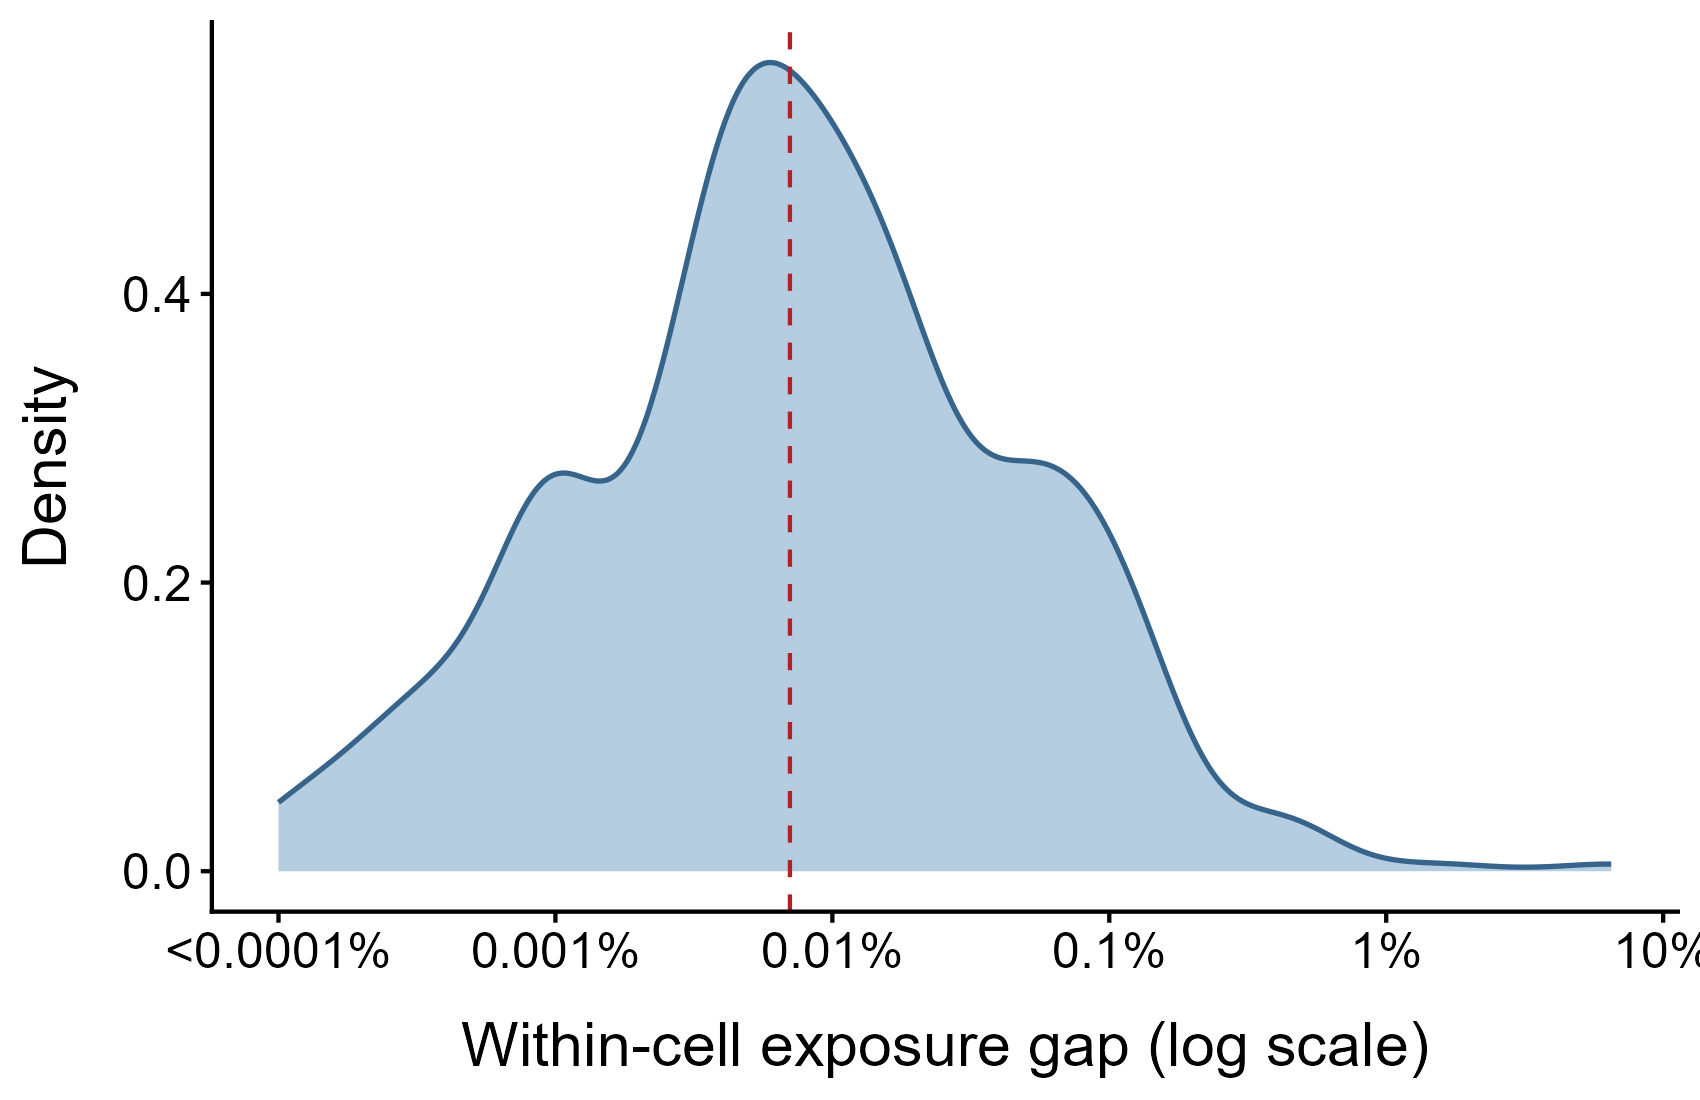
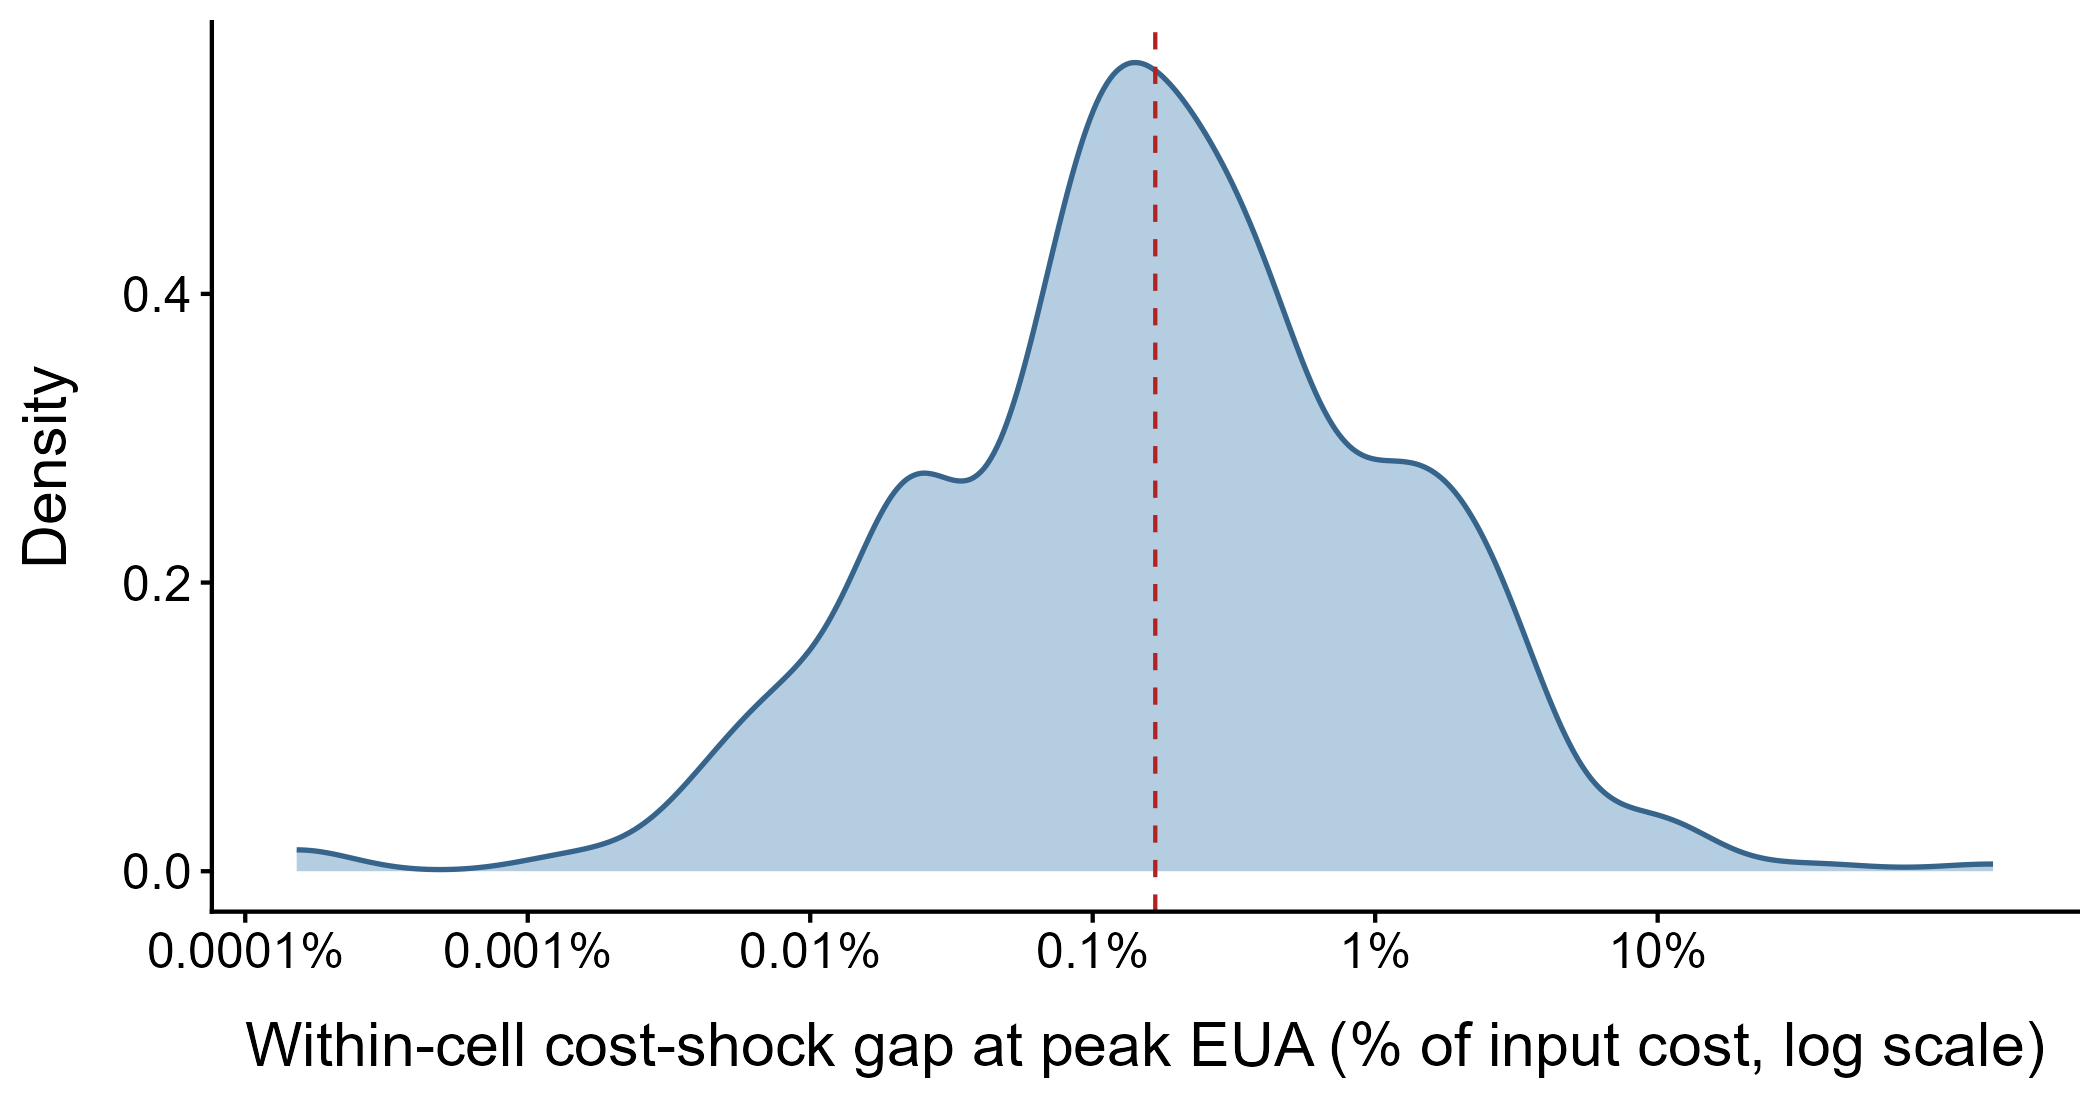
feat(figures+tables): cost shock at peak EUA throughout descriptive section
Three changes for interpretability:

1. Pct in EUTL now uses the 2015-16 omega-measurement window
   (was previously the 2010-14 pre-window). Top is mechanically 100%;
   bot drops because we're checking a tighter window.

2. New table row 'Carbon cost at peak EUA (% of input cost)' replaces
   'Carbon pricing exposure'. Value = omega * EUA_2018_real * 100,
   with EUA_2018_real = 23.70 EUR/tCO2 (end-of-2018 settlement,
   deflated to 2016 EUR via Belgian aggregate PPI -- the same
   reference as phase4_within_intensive_figures.R uses).
   Values like 1.20% are much more interpretable than 0.0005.

3. Both density figures (omega_density, exposure_gap_density) now plot
   the cost shock at peak EUA in % units rather than raw omega. The
   x-axes are consistent across all descriptive artifacts.

Figure width bumped from 8.5 to 10.5 inches so the longer axis title
'Within-cell cost-shock gap at peak EUA (% of input cost, log scale)'
fits without clipping.

diff --git a/output_local/tables/phase4_within_nace4d_descriptive_summary_table.tex b/output_local/tables/phase4_within_nace4d_descriptive_summary_table.tex
@@ -17,10 +17,10 @@ Firm age & 15.4 & 16 & 15.4 & 16 \\
 Relationship age (years to 2017) & 10.1 & 10 & 9.9 & 10 \\
 Pre-policy attrition rate (\%) & \multicolumn{2}{c}{8.11} & \multicolumn{2}{c}{8.42} \\
 \midrule
-Pct in EUTL & \multicolumn{2}{c}{96.6} & \multicolumn{2}{c}{38.6} \\
+Pct in EUTL & \multicolumn{2}{c}{100.0} & \multicolumn{2}{c}{33.9} \\
 Annual emissions (tCO2e) & 462,552 & 47,370 & 483,171 & 115,561 \\
 Emission intensity (tCO2e / EUR thousand revenue) & 1.55 & 0.22 & 1.53 & 0.31 \\
-Carbon pricing exposure & 0.0005 & 0.0001 & 0.0000 & 0.0000 \\
+Carbon cost at peak EUA (\% of input cost) & 1.201 & 0.200 & 0.048 & 0.000 \\
 \bottomrule
 \end{tabular}
 \end{table}
@@ -33,7 +33,7 @@ Carbon pricing exposure & 0.0005 & 0.0001 & 0.0000 & 0.0000 \\
 % - Firm age: years since the seller first appears in Annual Accounts, capped at 2016 (proxy for true firm age, which is not observed).
 % - Relationship age (years to 2017): years between the pair's first observed positive sales in the B2B panel (unrestricted; the panel starts in 2002) and the treatment year 2017. Capped from above at 15 (= 2017 - 2002).
 % - Pre-policy attrition rate (\%): average across t in {2010, ..., 2015} of the share of pairs that are alive at year t (positive sales to the buyer in the cell) but not alive at year t+1. Both t and t+1 are pre-policy; this rate is structural, not driven by the MSR.
-% - Pct in EUTL: share of sellers in the role with at least one positive emissions record in the EUTL registry over 2010-2014. Top suppliers are mechanically more likely to be in EUTL because omega > 0 requires an EUTL record.
-% - Annual emissions (tCO2e): pre-period mean emissions for sellers in the EUTL registry. Sellers not in EUTL are excluded from this calculation.
+% - Pct in EUTL: share of sellers in the role with at least one positive emissions record in the EUTL registry in the 2015-2016 omega-measurement window. By construction, top suppliers have omega > 0, which implies in_eutl_omega = TRUE; their Pct in EUTL is therefore 100%.
+% - Annual emissions (tCO2e): pre-period (2010-2014) mean emissions for sellers in the EUTL registry. Sellers not in EUTL are excluded from this calculation.
 % - Emission intensity: pre-period mean of (annual emissions in tCO2e) / (annual revenue in EUR thousand), for sellers in the EUTL registry.
-% - Carbon pricing exposure: omega, defined as max(emissions - free allocation, 0) * EUA price / total cost, averaged over the 2015-2016 omega-measurement window.
+% - Carbon cost at peak EUA (% of input cost): omega multiplied by the deflated end-of-2018 EUA settlement price (23.70 EUR/tCO2, deflated to 2016 EUR using the Belgian aggregate PPI) and expressed as a percentage. The underlying omega is max(emissions - free allocation, 0) / total cost (in tCO2 / EUR), averaged over the 2015-2016 omega-measurement window.
